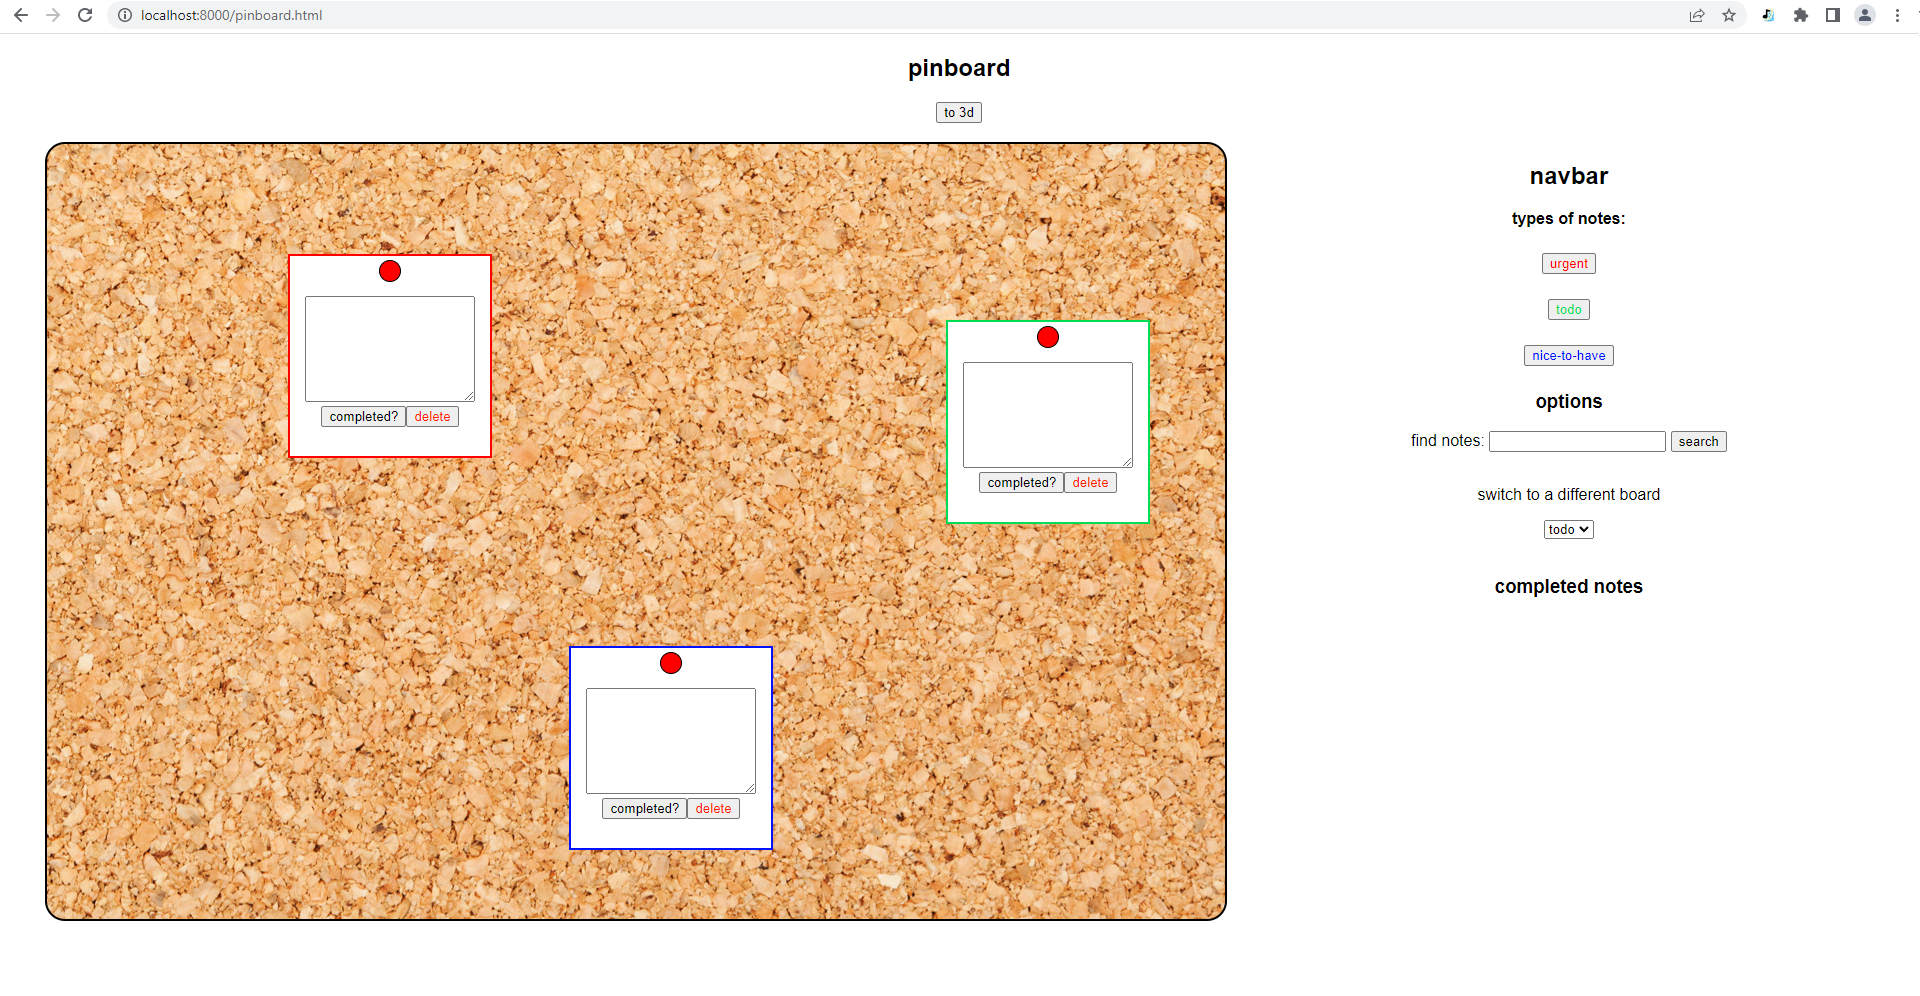
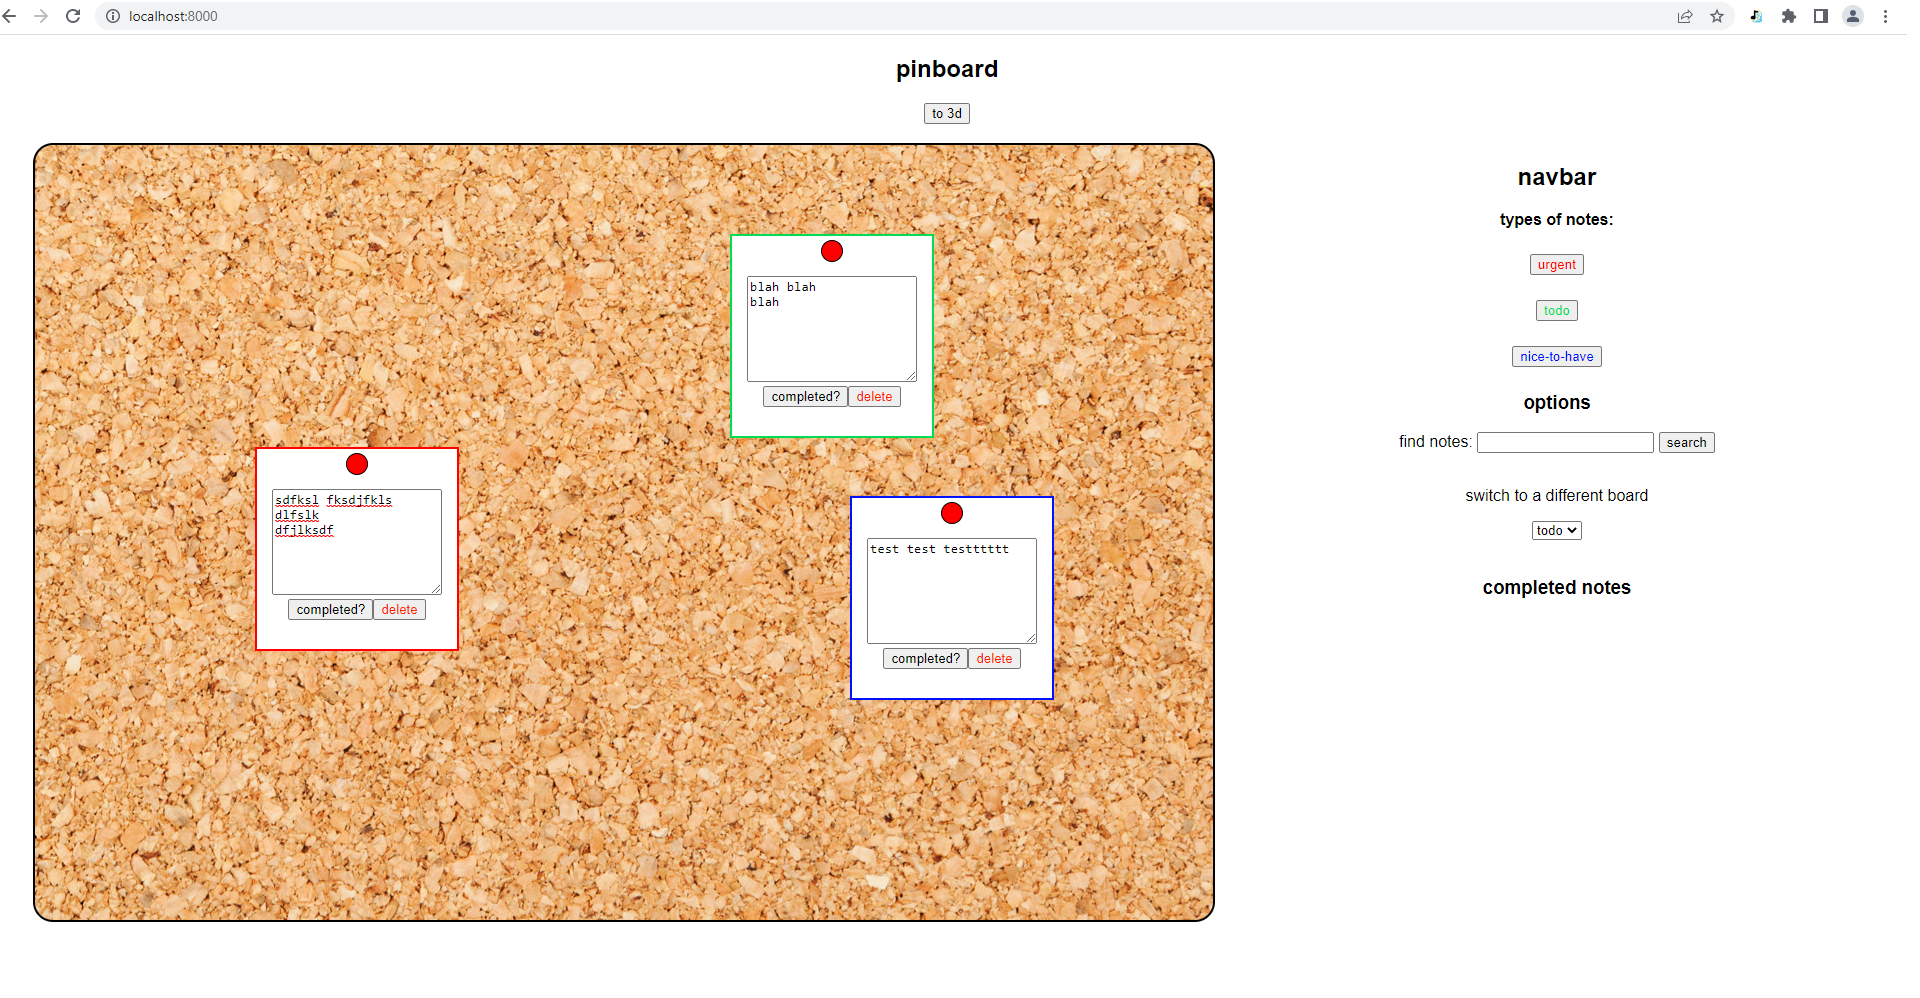
more improvements

diff --git a/index.html b/index.html
@@ -134,6 +134,8 @@
 class NoteManager {
     notemap = {}; // map note id to notes
     
+    textFont = null; // for displaying text in 3d
+    
     notecounts = {
         'urgent': 0,
         'todo': 0,
@@ -170,6 +172,8 @@ class NoteManager {
     }
     
     add3dNote(type, noteElement){
+        // assign new id to note and store in map
+        // so we can track the 2d and 3d versions of it
         const newId = type + this.notecounts[type]++;
         noteElement.id = newId;
         
@@ -193,6 +197,52 @@ class NoteManager {
         return this.notemap[id]['note3d'];
     }
     
+    removeNote(id){
+        const note = this.notemap[id];
+        if(note){
+            const note2d = note.note2d;
+            note2d.parentNode.removeChild(note2d);
+            scene.remove(note.note3d);
+            delete this.notemap[id];
+        }
+    }
+    
+    // rotation - in radians
+    rotateNote3d(rotation, noteId){
+        const note3d = this.get3dNote(noteId);
+        note3d.setRotationFromAxisAngle(new THREE.Vector3(0, 0, 1), rotation);
+    }
+    
+    updateNote3dText(text, noteId){
+        const note3d = this.get3dNote(noteId);
+        if(note3d.noteText && note3d.noteText === text){
+            return;
+        }else{
+            note3d.noteText = text.split(" ").slice(0, 3).concat(["..."]).join(" "); // take first 3 words
+            
+            // clear old text mesh if exists
+            if(note3d.text3d) note3d.remove(note3d.text3d);
+            
+            const geometry = new THREE.TextGeometry(note3d.noteText, {
+                size: 0.2,
+                height: 0.05,
+                curveSegments: 6,
+                font: noteManager.textFont,
+            });
+            
+            const color = new THREE.Color();
+            color.setRGB(130, 130, 130);
+            
+            const material = new THREE.MeshBasicMaterial({color});
+            const currNoteText = new THREE.Mesh(geometry, material);
+            currNoteText.translateX(-1.1);
+            currNoteText.translateY(0.4);
+            
+            note3d.text3d = currNoteText;
+            note3d.add(currNoteText);
+        }
+    }
+    
     moveNote3d(newX, newY, boardWidth, boardHeight, note3d){
         // move 3d note based on 2d note position
         mouse.x = (newX / boardWidth) * 2 - 1; //(evt.offsetX / evt.target.width) * 2 - 1;
@@ -210,6 +260,7 @@ const noteManager = new NoteManager();
 
 // for the 3d board
 const loader = new THREE.GLTFLoader();
+const fontLoader = new THREE.FontLoader();
 const renderer = new THREE.WebGLRenderer({antialias: true});
 const w = document.getElementById("board").clientWidth;
 const h = document.getElementById("board").clientHeight;
@@ -281,9 +332,13 @@ function setup3dBoard(){
     
     animate();
 }
+
 getModel('thumbtack.gltf').then((model) => {
     thumbtackModel = model;
-    setup3dBoard();
+    fontLoader.load("helvetiker_bold.typeface.json", (tex) => {
+        noteManager.textFont = tex;
+        setup3dBoard();
+    });
 });
 
 
@@ -318,6 +373,9 @@ function setUpNoteEditScreen(noteType){
     noteTextArea.style.marginTop = "5%";
     noteTextArea.style.height = "50%";
     note.appendChild(noteTextArea);
+    noteTextArea.addEventListener('input', (evt) => {
+        noteManager.updateNote3dText(evt.target.value, note.id);
+    });
     
     const completeButton = document.createElement('button');
     completeButton.textContent = "completed?";
@@ -342,7 +400,7 @@ function setUpNoteEditScreen(noteType){
             container.appendChild(document.createElement('br'));
         }
         
-        note.parentNode.removeChild(note);
+        noteManager.removeNote(note.id);
     });
     
     const deleteButton = document.createElement('button');
@@ -350,7 +408,7 @@ function setUpNoteEditScreen(noteType){
     deleteButton.style.color = "#ff2200";
     deleteButton.addEventListener('click', (evt) => {
         if(confirm("are you sure you want to delete this note?")){
-            note.parentNode.removeChild(note);
+            noteManager.removeNote(note.id);
         }
     });
     note.appendChild(deleteButton);
@@ -375,6 +433,7 @@ function setUpNoteEditScreen(noteType){
             newRotation++;
         }
         note.style.transform = `rotate(${newRotation}deg)`;
+        noteManager.rotateNote3d(-newRotation*Math.PI/180, note.id);
     });
     
     //  use draggable? https://stackoverflow.com/questions/57435575/how-to-make-a-draggable-element-stay-at-the-new-position-when-dropped-html5-not
@@ -453,6 +512,7 @@ function selectNote(evt){
 const rotateBoard = [
     {transform: 'rotateY(180deg)'}
 ];
+
 const rotateTiming = {
     duration: 500,
     iterations: 1
